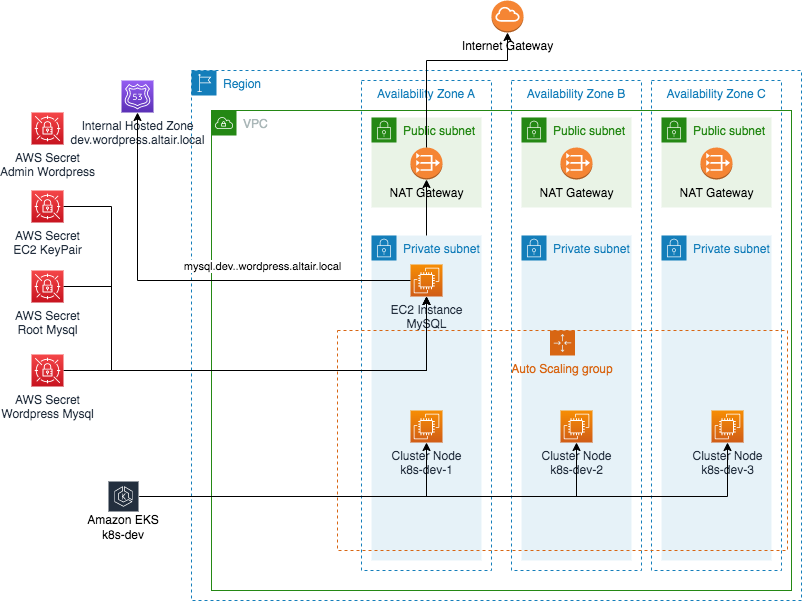
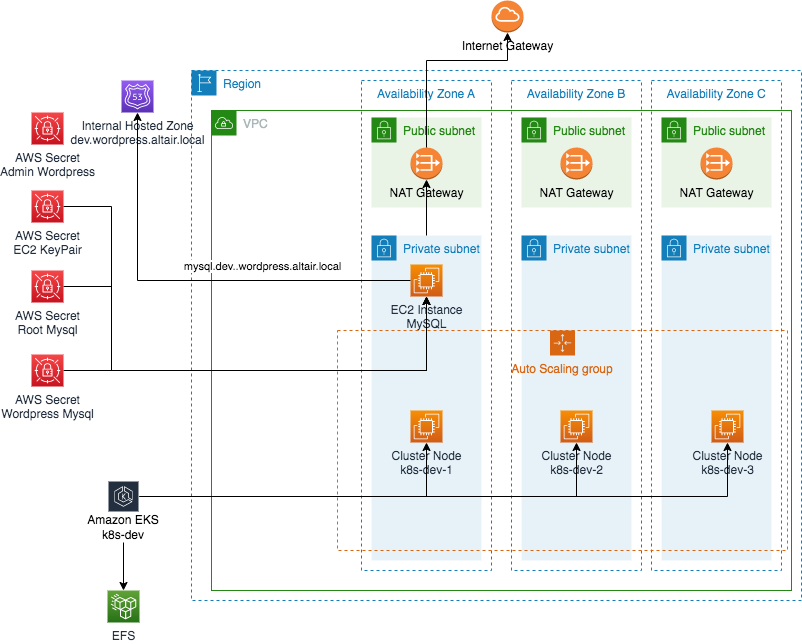
Update documentation

Changed region(s): [[0.0, 0.0, 1.0, 1.0], [0.0935, 0.5092, 0.9663, 1.0]]

diff --git a/src/wordpress-app.ts b/src/wordpress-app.ts
@@ -41,6 +41,9 @@ export class WordpressApp {
       case 'mysql':
         await this.createMySQLStack()
         break;
+      case 'efs':
+        new EFSStack(this.app, 'wordpress-efs-' + this.props.environmentName, this.props)
+        break;        
       case 'kubernetes':
         await this.createEKSStack()
         break;

diff --git a/README.md b/README.md
@@ -1,56 +1,77 @@
-# Build Infrastructure with AWS CDK Cloudformation
+# Infrastructure-as-code using AWS CDK Cloudformation
 
+## Introduction
+
+This repository has been created as part of the contents for the [Devops Course](https://online.professional.uchicago.edu/course/dtb-dev/) at the [University of Chicago](https://online.professional.uchicago.edu/) as an Teacher Assistant.
+
+The purpose of this repository is to show an infrastructure-as-code example to build an example architecture consisting of a Wordpress application running on Kubernetes and using MySQL as the database engine ans EFS for sharing data the different wordpress pods.
+The technology used to build the infrastructure is AWS CDK Cloudformation, because it provides a handy way to handle the creation of the AWS resources programatically and not using directly the tedious DSL format of Cloudformation.
+
+## Important
+
+<img src='https://toppng.com/uploads/preview/warning-vectors-and-icons-warning-svg-icon-11553508662kccnngsukp.png' width='16'>
+This repository contains code that create resources on AWS that are not on the free-tier, so before executing it be aware that you will be charge for them. 
+
+Be sure that you review that all reasources have been deleted after the removal of the Stack, as there are some resources that are not deleted automatically after deleting the Cloudformation stack. Like for example: Loadbalancer, EFS FileSystem, Security Groups.
 
 ## Prerequisites
 
 - Installed AWS Cli 2.2.12
 - Installed AWS CDK 2.8.0
 
-## AWS Infrastructure
+## Architecture
 
 ![AWS Infrastructure](./images/aws-infrastructure.png)
 
-
-## Build Locally 
+## Commands
 
 - `npm run clean`:  Removes generated files during compilation
 - `npm run refresh`:  Regenerates the node_modules folder
-- `npm run build`: Compile CDK typescript to Javascript
-- `npm run test`: Perform the Jest Unit Tests
-- `npm run deploy:secrets`: Deploys Wordpress Secrets
-- `npm run deploy:network`: Deploys Network stack
-- `npm run deploy:mysql`: Deploys Mysql stack
-- `npm run deploy:kubernetes`: Deploys Kubernetes stack
-- `npm run deploy:infrastructure`: Deploys All the stack
-- `npm run kubernetes:config`: Updates the Kubernetes config file from the new generated cluster
-- `npm run kubernetes:token`: Gets the EKS token from the new generated cluster
+- `npm run build`: Compile CDK project
+- `npm run test`: Execute the Jest Unit Tests
+- `npm run deploy:secrets`: Deploys the Secrets stack
+- `npm run deploy:network`: Deploys the Network stack
+- `npm run deploy:mysql`: Deploys the Mysql stack
+- `npm run deploy:efs`: Deploys the EFS stack
+- `npm run deploy:kubernetes`: Deploys the Kubernetes stack which requires the EFS stack
+- `npm run deploy:infrastructure`: Deploys Mysql, EFS and Kubernetes stack
+- `npm run kubernetes:config`: Updates you Kubernetes config file ($HOME/.kube/config) with the new generated cluster
 
+## Stacks
 
-## Build on Github
+In this section we describe the details and goals of each stack that this architecture is compose of.
 
-See them on [Github Actions](https://github.com/ausias-armesto/uchicago-cdk/actions)
+### Secret stack
 
-If you want to execute them as well on Github remind that you need to have configured on yor forked repository the secrets: _AWS_ACCESS_KEY_ID_ and _AWS_SECRET_ACCESS_KEY_ with its corresponding values to connect to AWS
-
-- `Deploy Network`:  Install the Network and Secret Stacks
-- `Deploy Infrastructure`:  Install the MySQL and EKS Stacks
-
-
-## Screenshots
-
-### Deploy Secrets and Network stack
-
-![Github Action Deploy Network](./images/github_network.png)
-
-![Network Stack Resources](./images/network_stack.png)
+The secret stack is created to externalize of other cloud resources the sensible information in one single stack. This is a good practice as when the architecture evolves in the future, the resources on this stack won't be change and therefore we will easier warranty the consistency among future stack changes.
 
 ![Secrets Stack Resources](./images/secrets_stack.png)
 
+### Network stack
 
-### Deploy MySql and EKS stack
+This stack holds all the resources required to have a simple network infrastructure on the cloud that will allow to host Mysql EC2 Instance and Kuberentes nodes on private subnets. The network topology consists of 6 subnets, 3 of them public and 3 isolated. The public and isolated subnets are in different availavility zone.
+The outgoing network connectivity on the isolated subnet is done through a NAT gateway
+It is important to mention that in this architecture none of the EC2 instances receibe a public IP, as they are on the isolated subnet. 
 
-![Github Action Deploy Infrastructure](./images/github_infrastructure.png)
+![Network Stack Resources](./images/network_stack.png)
 
+### Mysql stack
+
+Create the EC2 Instance that will hold the Mysql enginge using the AMI generated on the [Packer repository](../uchicago-packer/). Besides creates the KeyPair needed to access the EC2 Instance and configures the Mysql server with the credentials existing on the secrets.
 ![MySql Stack Resources](./images/mysql_stack.png)
 
+### EFS stack
+
+Creates the EFS FileSystem needed by wordpress to share date among their pods and the security group to handle its access
+
+![EKS Stack Resources](./images/efs_stack.png)
+
+### Kubernetes Stack
+
+Creates the EKS Cluster, configures the kubernetes cluster by adding a storage class to be able to use EFS, and creates an autoscaling group for the worker nodes of the cluster. The autoscaling group has an automatic scaling rule configured to add more nodes, up to 6, if the CPU usage of the worker nodes exceeds 20 %.
+ 
 ![EKS Stack Resources](./images/eks_stack.png)
+
+
+
+
